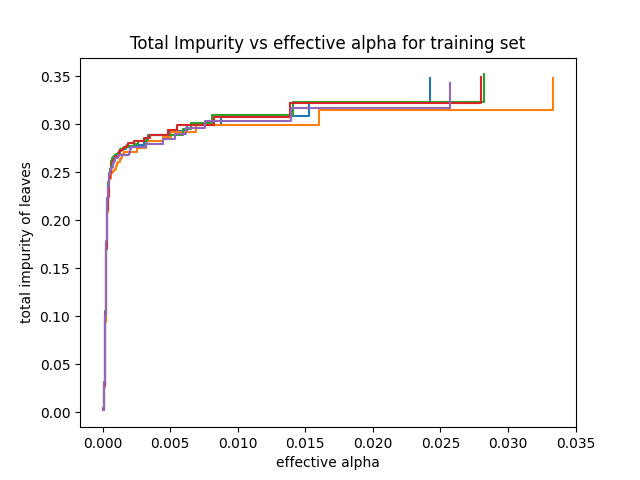
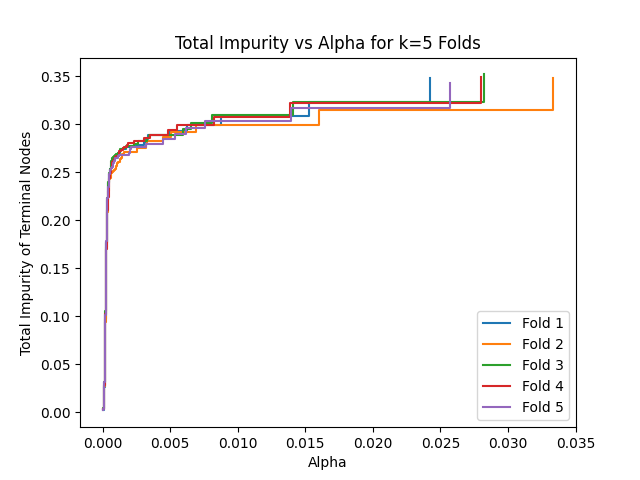
Update figures

diff --git a/prelim2.py b/prelim2.py
@@ -11,36 +11,34 @@ df = df.drop(columns=[
     "CustomerID", "Count", "Country", "State", "City", "Zip Code", "Lat Long",
     "Latitude", "Longitude", "Churn Label", "Churn Score", "CLTV",
     "Churn Reason",
-    "Total Charges" # Missing values, add back later
+    "Total Charges"  # Missing values, add back later?
 ])
 
-# Set types
-df = df.astype("category")
-df["Tenure Months"] = df["Tenure Months"].astype("int64")
-df["Monthly Charges"] = df["Monthly Charges"].astype("float64")
+# No need to change types to categorical, as one-hot encoding handles that
 
 # Isolate Features and Response
-X = df.drop(columns = ["Churn Value"])
+X = df.drop(columns=["Churn Value"])
 Y = df["Churn Value"]
 onehot_X = pd.get_dummies(X, drop_first=True)
 
-# k-fold CV
+# Split data
 n_splits = 5
 kf = model_selection.KFold(n_splits=n_splits, shuffle=True, random_state=441)
 
 # Create fold variables to store data
 FoldResults = namedtuple("FoldResults", [
-    "ccp_alphas", "impurities", "node_counts", "depth", 
+    "ccp_alphas", "impurities", "node_counts", "depth",
     "train_scores", "test_scores"
 ])
 folds = []
 
+# k-fold CV
 for train, test in kf.split(onehot_X):
     print("Testing...")
     X_train, X_test = onehot_X.iloc[train], onehot_X.iloc[test]
     y_train, y_test = Y.iloc[train], Y.iloc[test]
 
-    # Create Decision Tree
+    # Create Decision Tree, use Cost Complexity Pruning
     clf = tree.DecisionTreeClassifier(random_state=441)
     path = clf.cost_complexity_pruning_path(X_train, y_train)
     ccp_alphas, impurities = path.ccp_alphas[:-1], path.impurities[:-1]
@@ -48,7 +46,8 @@ for train, test in kf.split(onehot_X):
     # Train a DTree with each alpha
     clfs = []
     for ccp_alpha in ccp_alphas:
-        clf = tree.DecisionTreeClassifier(random_state=441, ccp_alpha=ccp_alpha)
+        clf = tree.DecisionTreeClassifier(
+            random_state=441, ccp_alpha=ccp_alpha)
         clf.fit(X_train, y_train)
         clfs.append(clf)
 
@@ -58,6 +57,7 @@ for train, test in kf.split(onehot_X):
     train_scores = [clf.score(X_train, y_train) for clf in clfs]
     test_scores = [clf.score(X_test, y_test) for clf in clfs]
 
+    # Save fold results
     folds.append(FoldResults(
         ccp_alphas, impurities, node_counts, depth, train_scores, test_scores
     ))
@@ -69,9 +69,10 @@ for i in range(n_splits):
         folds[i].ccp_alphas, folds[i].impurities, marker=",",
         label=f"Fold {i+1}", drawstyle="steps-post"
     )
-ax.set_xlabel("effective alpha")
-ax.set_ylabel("total impurity of leaves")
-ax.set_title("Total Impurity vs effective alpha for training set")
+ax.set_xlabel("Alpha")
+ax.set_ylabel("Total Impurity of Terminal Nodes")
+ax.set_title(f"Total Impurity vs Alpha for k={n_splits} Folds")
+ax.legend()
 
 # Graph number of nodes and depth vs alpha
 fig, ax = plt.subplots(2, 1)
@@ -80,27 +81,26 @@ for i in range(n_splits):
         folds[i].ccp_alphas, folds[i].node_counts, marker=",",
         label=f"Fold {i+1}", drawstyle="steps-post"
     )
-ax[0].set_xlabel("alpha")
-ax[0].set_ylabel("number of nodes")
-ax[0].set_title("Number of nodes vs alpha")
+ax[0].set_xlabel("Alpha")
+ax[0].set_ylabel("Number of Nodes")
+ax[0].set_title(f"Number of Nodes vs Alpha for k={n_splits} Folds")
+ax[0].legend()
 for i in range(n_splits):
     ax[1].plot(
         folds[i].ccp_alphas, folds[i].depth, marker=",",
         label=f"Fold {i+1}", drawstyle="steps-post"
     )
-ax[1].set_xlabel("alpha")
-ax[1].set_ylabel("depth of tree")
-ax[1].set_title("Depth vs alpha")
+ax[1].set_xlabel("Alpha")
+ax[1].set_ylabel("Depth")
+ax[1].set_title(f"Depth of Classification Tree vs Alpha for k={n_splits} Folds")
+ax[1].legend()
 fig.tight_layout()
 
-for i in range(n_splits):
-    print(folds[i].ccp_alphas[:10])
-
-# Graph accuracy vs alpha
+# Graph training accuracy vs alpha
 fig, ax = plt.subplots()
-ax.set_xlabel("alpha")
-ax.set_ylabel("accuracy")
-ax.set_title("Accuracy vs alpha for training sets")
+ax.set_xlabel("Alpha")
+ax.set_ylabel("Accuracy")
+ax.set_title("Training Accuracy vs Alpha for k=5 Folds")
 for i in range(n_splits):
     ax.plot(
         folds[i].ccp_alphas, folds[i].train_scores, marker=",",
@@ -108,10 +108,11 @@ for i in range(n_splits):
     )
 ax.legend()
 
+# Graph testing accuracy vs alpha
 fig, ax = plt.subplots()
-ax.set_xlabel("alpha")
-ax.set_ylabel("accuracy")
-ax.set_title("Accuracy vs alpha for testing sets")
+ax.set_xlabel("Alpha")
+ax.set_ylabel("Accuracy")
+ax.set_title(f"Testing Accuracy vs Alpha for k={n_splits} Folds")
 for i in range(n_splits):
     ax.plot(
         folds[i].ccp_alphas, folds[i].test_scores, marker=",",
@@ -119,6 +120,7 @@ for i in range(n_splits):
     )
 ax.legend()
 
+# Compute average testing accuracy for all alphas
 all_alphas = sorted(set(
     sum([list(folds[i].ccp_alphas) for i in range(n_splits)], [])
 ))
@@ -135,19 +137,22 @@ for alpha in all_alphas:
                 break
         a_sum += folds[i].test_scores[a_ind[i]]
     avg_test_scores.append(a_sum/n_splits)
-        
+
+# Graph average testing accuracy vs alpha
 fig, ax = plt.subplots()
-ax.set_xlabel("alpha")
-ax.set_ylabel("accuracy")
-ax.set_title("Average Accuracy vs alpha for testing sets")
+ax.set_xlabel("Alpha")
+ax.set_ylabel("Accuracy")
+ax.set_title(f"Average Accuracy vs Alpha for k={n_splits} Testing Sets")
 ax.plot(
     all_alphas, avg_test_scores, marker=".", drawstyle="steps-post"
 )
-ax.legend()
 
+# Show all plots
 plt.show()
 
-# max_test = max(test_scores)
-# where_max = test_scores.index(max_test)
-# best_alpha = ccp_alphas[where_max]
-# print(max_test, where_max, best_alpha)
+# Compute best alpha
+max_test = max(avg_test_scores)
+where_max = avg_test_scores.index(max_test)
+best_alpha = all_alphas[where_max]
+print(max_test, where_max, best_alpha)
+# Out: 0.79894862168527 1265 0.0006430489816063728
